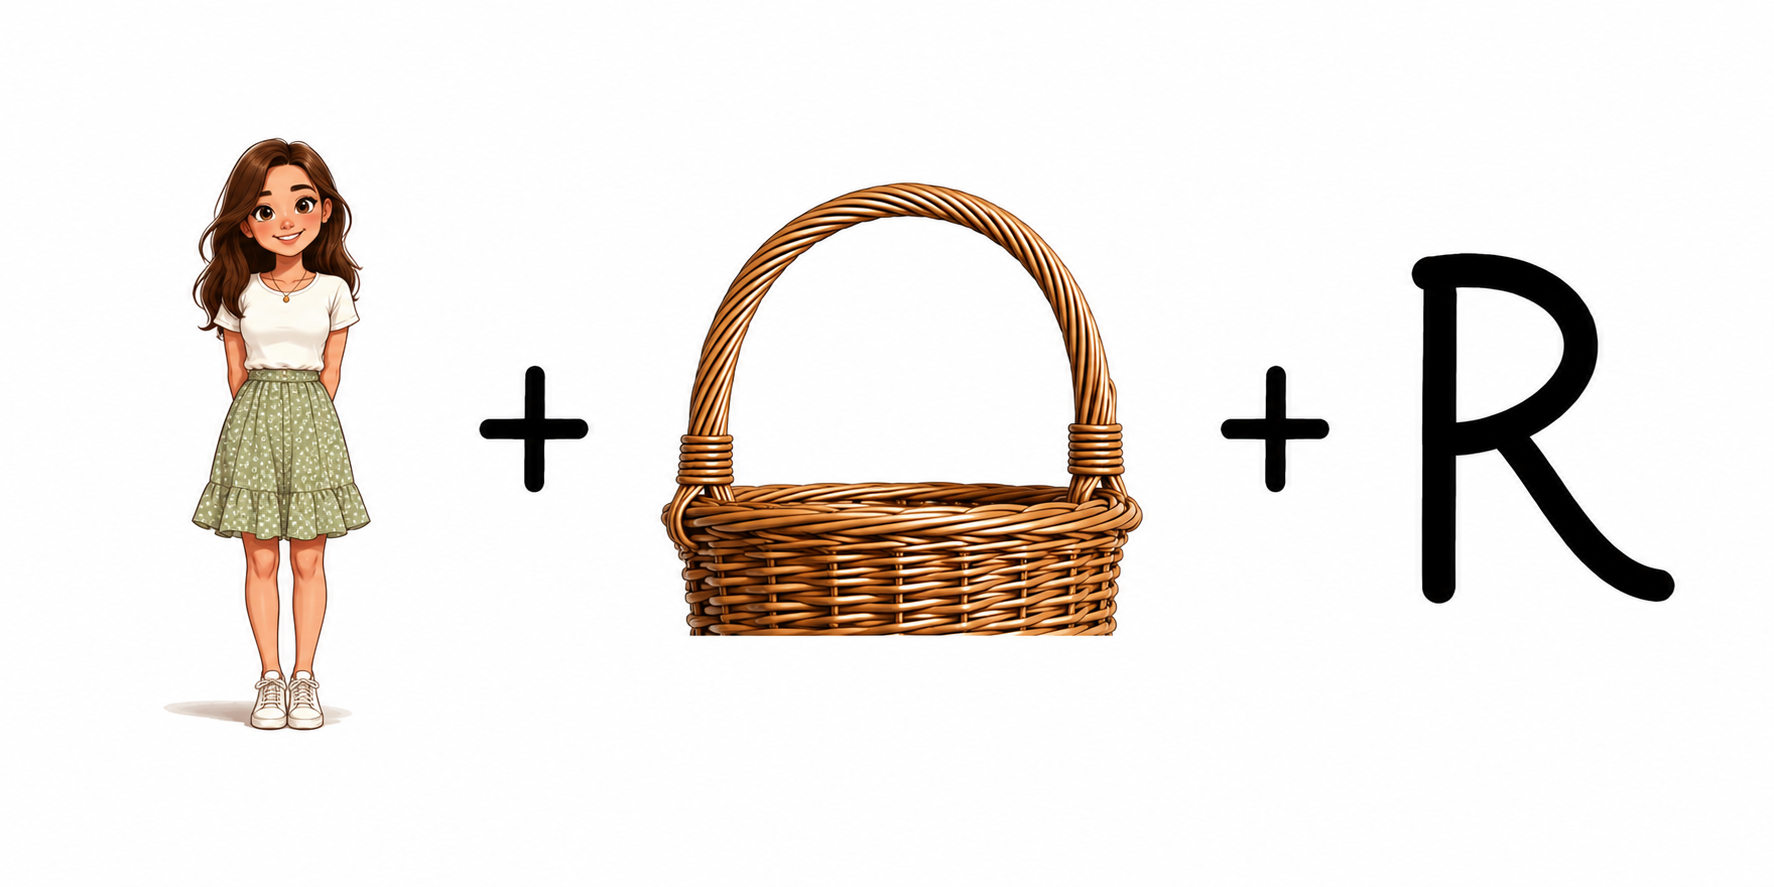
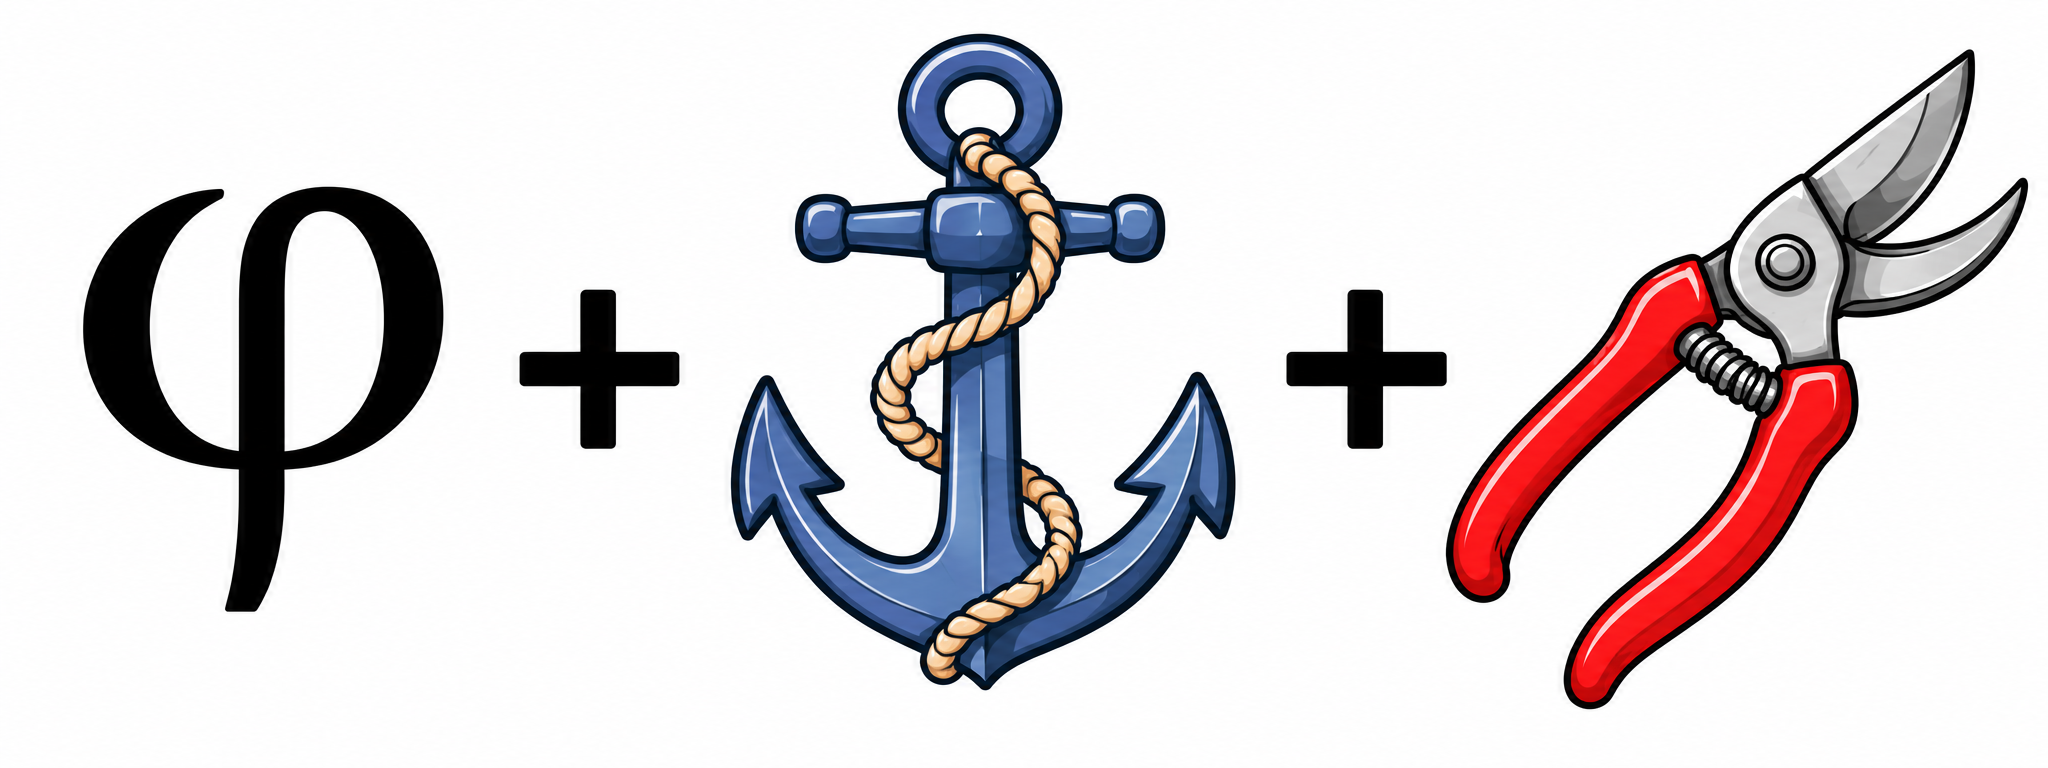
Add files via upload

Changed region(s): [[0.341, 0.0312, 0.9921, 0.9375], [0.031, 0.1562, 0.217, 0.8438], [0.248, 0.375, 0.341, 0.5938]]

diff --git a/script.js b/script.js
@@ -43,13 +43,17 @@ const GFORM_ENTRY_NOM = "entry.17519945";
 const GFORM_ENTRY_ETAPE = "entry.1150367304";
 const GFORM_ENTRY_STATUT = "entry.1220377202";
 const GFORM_ENTRY_TEMPS = "entry.1613330343";
+const GFORM_ENTRY_INDICES = "entry.653109299";
 
-function submitToGoogleForm(nom, etape, statut, temps) {
+function submitToGoogleForm(nom, etape, statut, temps, indices) {
   const body = new URLSearchParams();
   body.append(GFORM_ENTRY_NOM, nom);
   body.append(GFORM_ENTRY_ETAPE, etape);
   body.append(GFORM_ENTRY_STATUT, statut);
   body.append(GFORM_ENTRY_TEMPS, temps);
+  if (GFORM_ENTRY_INDICES && !GFORM_ENTRY_INDICES.includes("XXXXXXX")) {
+    body.append(GFORM_ENTRY_INDICES, indices);
+  }
   fetch(GFORM_URL, {
     method: "POST",
     mode: "no-cors", // Google Forms ne renvoie pas de CORS, réponse illisible mais l'envoi fonctionne
@@ -66,6 +70,41 @@ function recordStep(step) {
     localStorage.setItem("defi_steps", JSON.stringify(steps));
   }
 }
+
+// ---------- Suivi de la page actuelle (pour savoir où une personne est bloquée) ----------
+function currentPageLabel() {
+  const path = window.location.pathname;
+  const match = path.match(/enigme(\d+)\.html/);
+  if (match) return "Énigme " + match[1];
+  if (path.includes("final.html")) return "Page finale";
+  return "Page d'accueil";
+}
+
+function trackCurrentPage() {
+  localStorage.setItem("defi_current_page", currentPageLabel());
+}
+
+// ---------- Suivi des indices consultés ----------
+function trackHintOpening() {
+  const hintEl = document.querySelector("details.hint");
+  if (!hintEl) return;
+  const match = window.location.pathname.match(/enigme(\d+)\.html/);
+  if (!match) return;
+  const stepNum = match[1];
+  hintEl.addEventListener("toggle", () => {
+    if (!hintEl.open) return;
+    const hints = JSON.parse(localStorage.getItem("defi_hints") || "[]");
+    if (!hints.includes(stepNum)) {
+      hints.push(stepNum);
+      localStorage.setItem("defi_hints", JSON.stringify(hints));
+    }
+  });
+}
+
+document.addEventListener("DOMContentLoaded", () => {
+  trackCurrentPage();
+  trackHintOpening();
+});
 
 // Envoie le récapitulatif complet (une seule fois par progression atteinte)
 function sendSummary(finished) {
@@ -102,9 +141,12 @@ function sendSummary(finished) {
     fetch(FORM_URL, { method: "POST", body: data, keepalive: true }).catch(() => {});
   }
 
-  // 4 colonnes séparées pour le tableau Google Sheets
+  // Colonnes séparées pour le tableau Google Sheets
   const statut = finished ? "VALIDÉ EN ENTIER" : "EN COURS";
-  submitToGoogleForm(name, steps[steps.length - 1], statut, dureeTexte);
+  const etape = localStorage.getItem("defi_current_page") || steps[steps.length - 1];
+  const hints = JSON.parse(localStorage.getItem("defi_hints") || "[]");
+  const hintsTexte = hints.length ? hints.join(", ") : "Aucun";
+  submitToGoogleForm(name, etape, statut, dureeTexte, hintsTexte);
 }
 
 // Envoie automatiquement le récap quand la personne quitte une page (nouvelle progression uniquement)

diff --git a/index.html b/index.html
@@ -3,7 +3,7 @@
 <head>
 <meta charset="UTF-8">
 <meta name="viewport" content="width=device-width, initial-scale=1.0">
-<title>Défi des étudiants</title>
+<title>Allez, un peu de cervelle !</title>
 <link rel="stylesheet" href="style.css">
 </head>
 <body>
@@ -11,7 +11,7 @@
   <button id="music-toggle" class="music-toggle" onclick="toggleMusic()" aria-label="Couper la musique">🔊</button>
 
   <div class="card">
-    <span class="badge"><span class="dot"></span>DÉFI — NIVEAU 0/8</span>
+    <span class="badge"><span class="dot"></span>UN PEU DE CERVELLE — NIVEAU 0/8</span>
 
     <svg class="intro-icon" width="72" height="72" viewBox="0 0 72 72" fill="none" xmlns="http://www.w3.org/2000/svg">
       <rect x="18" y="32" width="36" height="28" rx="4" stroke="#7C9CFF" stroke-width="3"/>
@@ -20,7 +20,7 @@
       <path d="M36 48v6" stroke="#7C9CFF" stroke-width="3" stroke-linecap="round"/>
     </svg>
 
-    <h1>Le Défi des étudiants</h1>
+    <h1>Allez, un peu de cervelle !</h1>
     <p class="lead">Huit épreuves. Chiffrement, logique, observation.</p>
     <p>Chaque énigme te donne un mot. Résous-les toutes dans l'ordre pour révéler la phrase finale. Certaines paraissent évidentes, d'autres demandent de vraiment chercher — un indice reste disponible derrière l'icône 👁 si tu bloques trop longtemps.</p>
     <p>Pas de compte à créer, pas de limite de temps, tu peux t'arrêter et reprendre plus tard depuis le même lien. La plupart abandonnent avant la fin — à toi de voir si tu en fais partie.</p>

diff --git a/enigme8.html b/enigme8.html
@@ -3,7 +3,7 @@
 <head>
 <meta charset="UTF-8">
 <meta name="viewport" content="width=device-width, initial-scale=1.0">
-<title>Défi — Épreuve 8</title>
+<title>Un peu de cervelle — Épreuve 8</title>
 <link rel="stylesheet" href="style.css">
 </head>
 <body>
@@ -16,7 +16,7 @@
       <i class="done"></i><i class="done"></i><i class="done"></i><i class="done"></i><i class="done"></i><i class="done"></i><i class="done"></i><i class="done"></i>
     </div>
     <h2>Le dernier mot</h2>
-    <p>Trois dessins, trois sons, un seul mot à la fin.</p>
+    <p>Trois dessins, trois syllabes et trois sons, mais un seul mot à la fin.</p>
 
     <div class="panel" style="padding:16px 10px;">
       <img src="rebus.png" alt="Rébus" style="width:100%; height:auto; border-radius:8px;">
@@ -25,7 +25,7 @@
     <input type="text" id="ans" placeholder="Ta réponse (un verbe)">
     <button onclick="submitAnswer()">Valider</button>
     <div class="feedback" id="fb"></div>
-    <details class="hint"><summary>👁 Afficher l'indice</summary><p>Indice : une fille, l'anse d'un panier, et la lettre R. Colles les sons.</p></details>
+    <details class="hint"><summary>👁 Afficher l'indice</summary><p>Indice : pour chacun, ne garde que le son de la première syllabe du mot qu'il représente, puis colle-les (Phi / ancre / sécateur).</p></details>
   </div>
   <script src="script.js"></script>
   <script>

diff --git a/enigme1.html b/enigme1.html
@@ -3,7 +3,7 @@
 <head>
 <meta charset="UTF-8">
 <meta name="viewport" content="width=device-width, initial-scale=1.0">
-<title>Défi — Épreuve 1</title>
+<title>Un peu de cervelle — Épreuve 1</title>
 <link rel="stylesheet" href="style.css">
 </head>
 <body>

diff --git a/enigme2.html b/enigme2.html
@@ -3,7 +3,7 @@
 <head>
 <meta charset="UTF-8">
 <meta name="viewport" content="width=device-width, initial-scale=1.0">
-<title>Défi — Épreuve 2</title>
+<title>Un peu de cervelle — Épreuve 2</title>
 <link rel="stylesheet" href="style.css">
 </head>
 <body>

diff --git a/enigme3.html b/enigme3.html
@@ -3,7 +3,7 @@
 <head>
 <meta charset="UTF-8">
 <meta name="viewport" content="width=device-width, initial-scale=1.0">
-<title>Défi — Épreuve 3</title>
+<title>Un peu de cervelle — Épreuve 3</title>
 <link rel="stylesheet" href="style.css">
 </head>
 <body>

diff --git a/enigme4.html b/enigme4.html
@@ -3,7 +3,7 @@
 <head>
 <meta charset="UTF-8">
 <meta name="viewport" content="width=device-width, initial-scale=1.0">
-<title>Défi — Épreuve 4</title>
+<title>Un peu de cervelle — Épreuve 4</title>
 <link rel="stylesheet" href="style.css">
 </head>
 <body>

diff --git a/enigme5.html b/enigme5.html
@@ -3,7 +3,7 @@
 <head>
 <meta charset="UTF-8">
 <meta name="viewport" content="width=device-width, initial-scale=1.0">
-<title>Défi — Épreuve 5</title>
+<title>Un peu de cervelle — Épreuve 5</title>
 <link rel="stylesheet" href="style.css">
 </head>
 <body>

diff --git a/enigme6.html b/enigme6.html
@@ -3,7 +3,7 @@
 <head>
 <meta charset="UTF-8">
 <meta name="viewport" content="width=device-width, initial-scale=1.0">
-<title>Défi — Épreuve 6</title>
+<title>Un peu de cervelle — Épreuve 6</title>
 <link rel="stylesheet" href="style.css">
 </head>
 <body>

diff --git a/enigme7.html b/enigme7.html
@@ -3,7 +3,7 @@
 <head>
 <meta charset="UTF-8">
 <meta name="viewport" content="width=device-width, initial-scale=1.0">
-<title>Défi — Épreuve 7</title>
+<title>Un peu de cervelle — Épreuve 7</title>
 <link rel="stylesheet" href="style.css">
 </head>
 <body>
